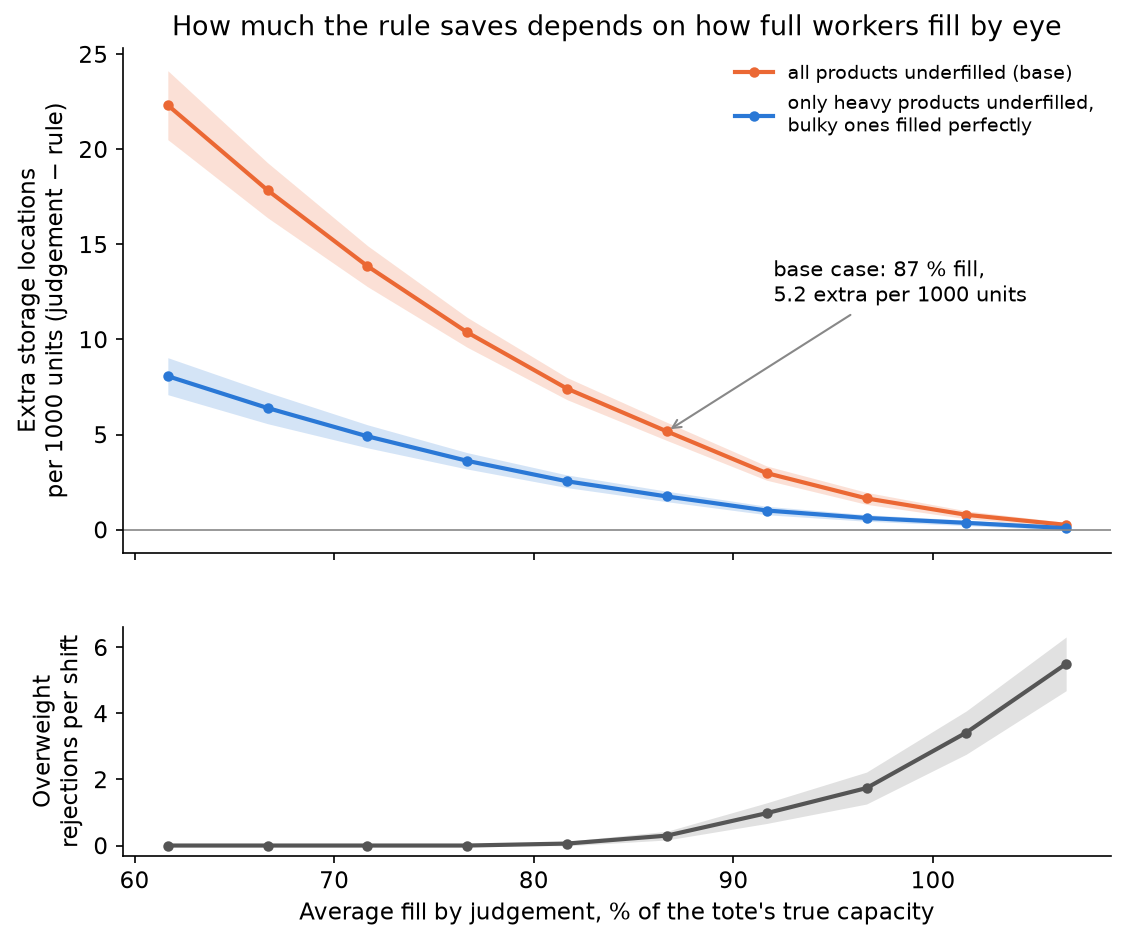
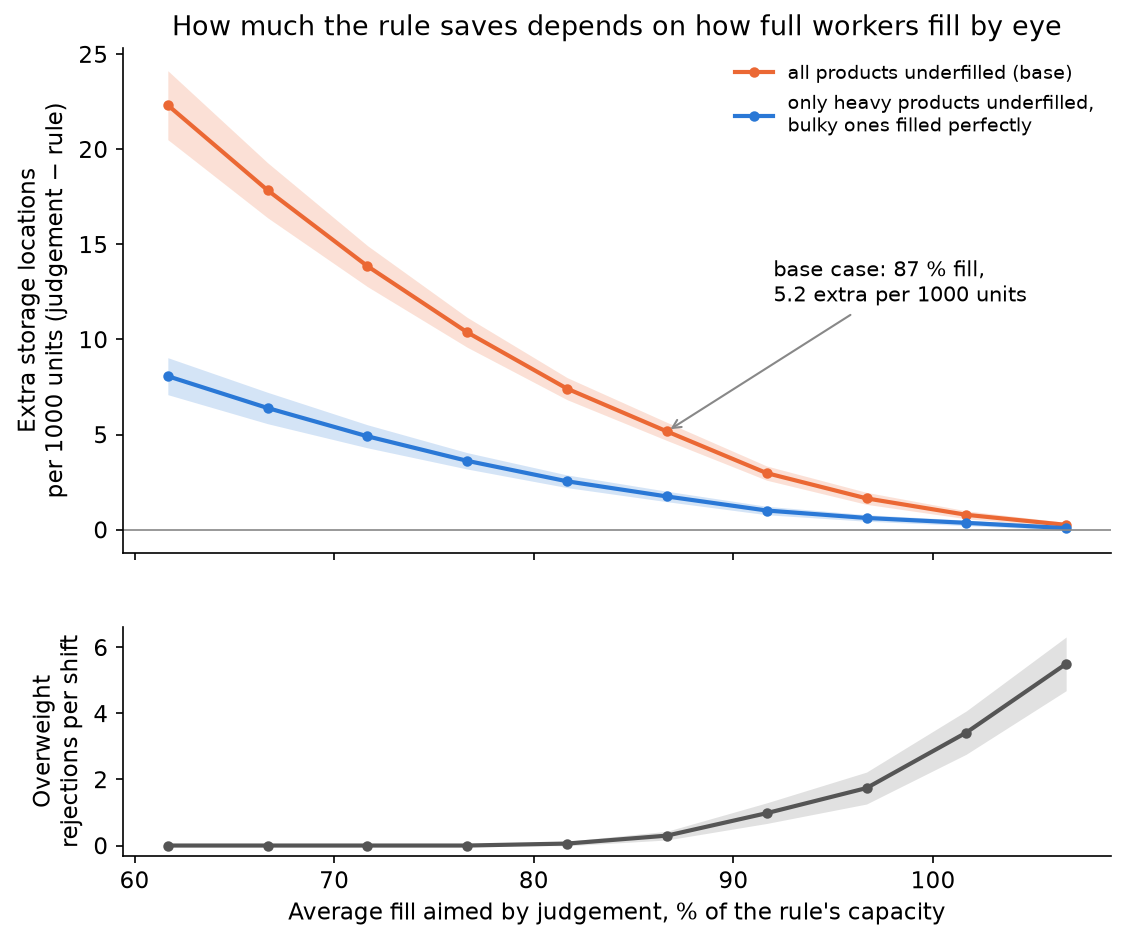
Label the fill axis as the aimed share of the rule's capacity
The x-axis of figure 5 said "true capacity", but capacity in the model is
the rule's grid count, and values above 100 % are an average aim, not a
fill. README and report wording follow the new label, and the limits now
split bags (undercounted) from coils (unclear).

Changed region(s): [[0.2487, 0.9564, 0.8393, 0.9872]]

diff --git a/src/plots.py b/src/plots.py
@@ -165,7 +165,7 @@ def fig5_sensitivity_fill() -> Path:
     bottom.fill_between(x, d["diff_ci_low"], d["diff_ci_high"], color=GREY, alpha=0.25, linewidth=0)
     bottom.plot(x, d["diff_mean"], color="#555555", linewidth=2, marker="o", markersize=4)
     bottom.set_ylabel("Overweight\nrejections per shift")
-    bottom.set_xlabel("Average fill by judgement, % of the tote's true capacity")
+    bottom.set_xlabel("Average fill aimed by judgement, % of the rule's capacity")
     return save(fig, "fig5_sensitivity_fill_factor.png")
 
 

diff --git a/report/raportti.md b/report/raportti.md
@@ -33,7 +33,7 @@ Kaikki aineisto on keksittyä mutta uskottavaa. Mitään yrityksen todellista da
 1. Tilausrivit saapuvat satunnaisesti (Poisson-prosessi).
 2. Työntekijä ottaa rivin, hakee laatikon ja päättää kappalemäärän.
    - **Säännöllä** hän lukee luvun näytöltä.
-   - **Silmämääräisesti** hän täyttää laatikosta satunnaisen osuuden F todellisesta kapasiteetista. F arvotaan jokaiselle laatikolle kolmiojakaumasta (0,65, 0,85, 1,10), joten laatikko täyttyy keskimäärin 87-prosenttisesti. Työntekijä näkee tilan mutta ei painoa. Siksi vain painavat tuotteet voivat ylittää painorajan.
+   - **Silmämääräisesti** hän tähtää satunnaiseen osuuteen F säännön kapasiteetista. F arvotaan jokaiselle laatikolle kolmiojakaumasta (0,65, 0,85, 1,10), joten tavoite on keskimäärin 87 %. Laatikkoon ei mahdu enempää kuin fyysisesti mahtuu, joten yli 100 %:n tavoite vaikuttaa vain painaviin tuotteisiin. Työntekijä näkee tilan mutta ei painoa. Siksi vain painavat tuotteet voivat ylittää painorajan.
 3. Liian painavan laatikon kuljetin hylkää. Työntekijä poistaa kappaleita ja lähettää laatikon uudestaan. Poistetut kappaleet menevät seuraavaan laatikkoon.
 4. Laatikko menee hissin kautta hyllyyn ja vie yhden varastopaikan.
 
@@ -63,12 +63,12 @@ Sääntö käyttää 12 % vähemmän laatikoita. Se on 5,2 varastopaikkaa vähem
 
 ![Herkkyys täyttöasteelle](../results/fig5_sensitivity_fill_factor.png)
 
-| Keskimääräinen täyttö | 77 % | 82 % | 87 % (perus) | 92 % | 97 % | 102 % |
+| Tavoiteltu täyttö, % säännön kapasiteetista | 77 % | 82 % | 87 % (perus) | 92 % | 97 % | 102 % |
 |---|---|---|---|---|---|---|
 | Ylimääräiset laatikot / 1000 kpl | 10,4 | 7,4 | 5,2 | 3,0 | 1,6 | 0,8 |
 | Hylkäyksiä / vuoro | 0 | 0,1 | 0,3 | 1,0 | 1,7 | 3,4 |
 
-- Jos työntekijät täyttävät keskimäärin alle 92 % laatikon kapasiteetista, sääntö säästää yli 3 varastopaikkaa tuhatta kappaletta kohti. Alle 77 %:n täytöllä säästö on yli 10.
+- Jos työntekijät täyttävät keskimäärin alle 92 % säännön kapasiteetista, sääntö säästää yli 3 varastopaikkaa tuhatta kappaletta kohti. Alle 77 %:n täytöllä säästö on yli 10.
 - Silmämääräinen täyttö häviää kummassakin suunnassa. Varovainen täyttö tuhlaa tilaa, ja rohkea täyttö tuottaa hylkäyksiä.
 - Noin kaksi kolmasosaa säästöstä tulee kookkaista, tilan rajoittamista tuotteista. Jos työntekijät täyttäisivät ne täydellisesti, säästö perustapauksessa olisi 1,7 eikä 5,2.
 - Säästö pysyy välillä 4-6 laatikkoa tuhatta kappaletta kohti, kun painoraja (15, 25, 35 kg), laatikon korkeus (150, 200, 300 mm), saapumistahti (3-7 riviä tunnissa) tai jakajien käyttö muuttuu.
@@ -80,6 +80,6 @@ Sääntö käyttää 12 % vähemmän laatikoita. Se on 5,2 varastopaikkaa vähem
 2. **Ruuhkaan sääntö ja lisätyöntekijä ovat eri työkaluja.** Lisätyöntekijä lyhentää jonoja ja ylityötä tehokkaammin. Sääntö säästää lisäksi varastopaikkoja. Ne eivät sulje toisiaan pois.
 3. **Ennen päätöstä kannattaa mitata kaksi asiaa:** kuinka täysiä laatikot todellisuudessa ovat ja kauanko kappalemäärän arviointi kestää. Molemmat voi mitata muutaman päivän otannalla.
 
-**Rajoitukset.** Kaikki syötteet ovat oletuksia. Pakkaussääntö käyttää yhtä asentoa koko laatikolle, joten todellinen kapasiteetti voi olla suurempi. Pussit ja kelat käsitellään laatikon muotoisina. Malli kuvaa yhtä asemaa, eikä se sisällä hissin vikoja. Tulos on laatikoina eikä euroina. Se, kannattaako näyttö asemalle, riippuu varastopaikan hinnasta.
+**Rajoitukset.** Kaikki syötteet ovat oletuksia. Pakkaussääntö käyttää yhtä asentoa koko laatikolle, joten todellinen kapasiteetti voi olla suurempi. Mallissa silmämääräinen täyttö ei voi koskaan ylittää säännön lukua, mikä kasvattaa kookkaiden tuotteiden säästöä. Pussit käsitellään laatikon muotoisina, joten niitä mahtuu todellisuudessa enemmän. Kelat voivat pakkautua huonommin kuin laatikot. Malli kuvaa yhtä asemaa, eikä se sisällä hissin vikoja. Tulos on laatikoina eikä euroina. Se, kannattaako näyttö asemalle, riippuu varastopaikan hinnasta.
 
 **Jatkokehitys.** Seuraavaksi rakentaisin sekalaatikot (useampi tuote samassa laatikossa), oikean 3D-pakkauksen ja tuotteiden sijoittelun hyllyyn (slotting). Oikealta asiakkaalta pyytäisin tuotteiden master-datan, mitatut käsittelyajat ja varaston todellisen painorajan.

diff --git a/README.md b/README.md
@@ -22,7 +22,7 @@ The project asks two things:
 **Simulation** (`src/simulation.py`). Order lines arrive at random (Poisson, 4 lines per hour, 6 at peak). A worker takes a tote, decides how many units go in, places them and sends the tote to the lifter.
 
 - *Rule:* the worker reads the number from a screen (0.1 min).
-- *Judgement:* the worker fills a random share F of the true capacity, with F ~ triangular(0.65, 0.85, 1.10) per tote, and takes 0.5 min to decide. Mean fill is 87 %. An overweight tote is rejected by the conveyor and the worker removes units.
+- *Judgement:* the worker aims at a random share F of the rule's capacity, with F ~ triangular(0.65, 0.85, 1.10) per tote, and takes 0.5 min to decide. The mean aim is 87 %. No tote can hold more than physically fits, so an aim above 100 % only matters for heavy goods. An overweight tote is rejected by the conveyor and the worker removes units.
 - Totes hold one product. A small leftover can go into a half or a quarter of a divided tote, and one partly filled divided tote may wait at the desk for the next leftover.
 - Each replication is one 8-hour shift that starts empty, so there is no warm-up. Lines that arrive before the end are finished in overtime.
 
@@ -52,12 +52,12 @@ Every number and its source is listed in [`notes/assumptions_and_sources.md`](no
 
 ![Sensitivity to the fill factor](results/fig5_sensitivity_fill_factor.png)
 
-| Mean fill by judgement | 77 % | 82 % | 87 % (base) | 92 % | 97 % | 102 % |
+| Mean fill aimed by judgement, % of the rule's capacity | 77 % | 82 % | 87 % (base) | 92 % | 97 % | 102 % |
 |---|---|---|---|---|---|---|
 | Extra totes per 1000 units | 10.4 | 7.4 | 5.2 | 3.0 | 1.6 | 0.8 |
 | Overweight rejections per shift | 0 | 0.1 | 0.3 | 1.0 | 1.7 | 3.4 |
 
-In plain words: **if workers fill on average below about 92 % of a tote's capacity, the rule saves more than 3 storage locations per 1000 units.** Below 77 % it saves more than 10. Judgement cannot win both ways. Careful filling wastes space, and bold filling causes rejections.
+In plain words: **if workers fill on average below about 92 % of the rule's capacity, the rule saves more than 3 storage locations per 1000 units.** Below 77 % it saves more than 10. Judgement cannot win both ways. Careful filling wastes space, and bold filling causes rejections.
 
 - About **two thirds of the saving comes from bulky, volume-bound goods.** If workers filled those perfectly and only misjudged weight, the saving at 87 % fill would be 1.7 per 1000 units instead of 5.2.
 - The storage saving stays at 4-6 totes per 1000 units when max load (15 / 25 / 35 kg), tote height (150 / 200 / 300 mm), arrival rate (3-7 lines/h) or divider use change.
@@ -76,7 +76,7 @@ Other figures in `results/`: units per tote by product (fig. 1), queue length ov
 ## Limits
 
 - **All inputs are assumptions.** The catalogue is synthetic, and handling times are calibrated to a remembered 3-5 minutes per tote. The fill factor F is the most important unknown, and it should be measured before quoting a number.
-- **The packing rule is a heuristic.** One orientation per tote and a regular grid. Real workers can mix orientations, so the true capacity may be higher. Bags and coils are treated as boxes.
+- **The packing rule is a heuristic.** One orientation per tote and a regular grid. Real workers can mix orientations, so the true capacity may be higher. In the model judgement can never beat the rule's number, which makes the saving on bulky goods look larger. Soft bags are treated as boxes, which undercounts them. Round coils may pack worse than a box.
 - **One station is modelled.** Stations do not share anything except the lifter, which was never a bottleneck. Lifter faults are not modelled.
 - **The result is in totes, not money.** Whether 5 storage locations per 1000 units pay for a screen at the station depends on site costs.
 
